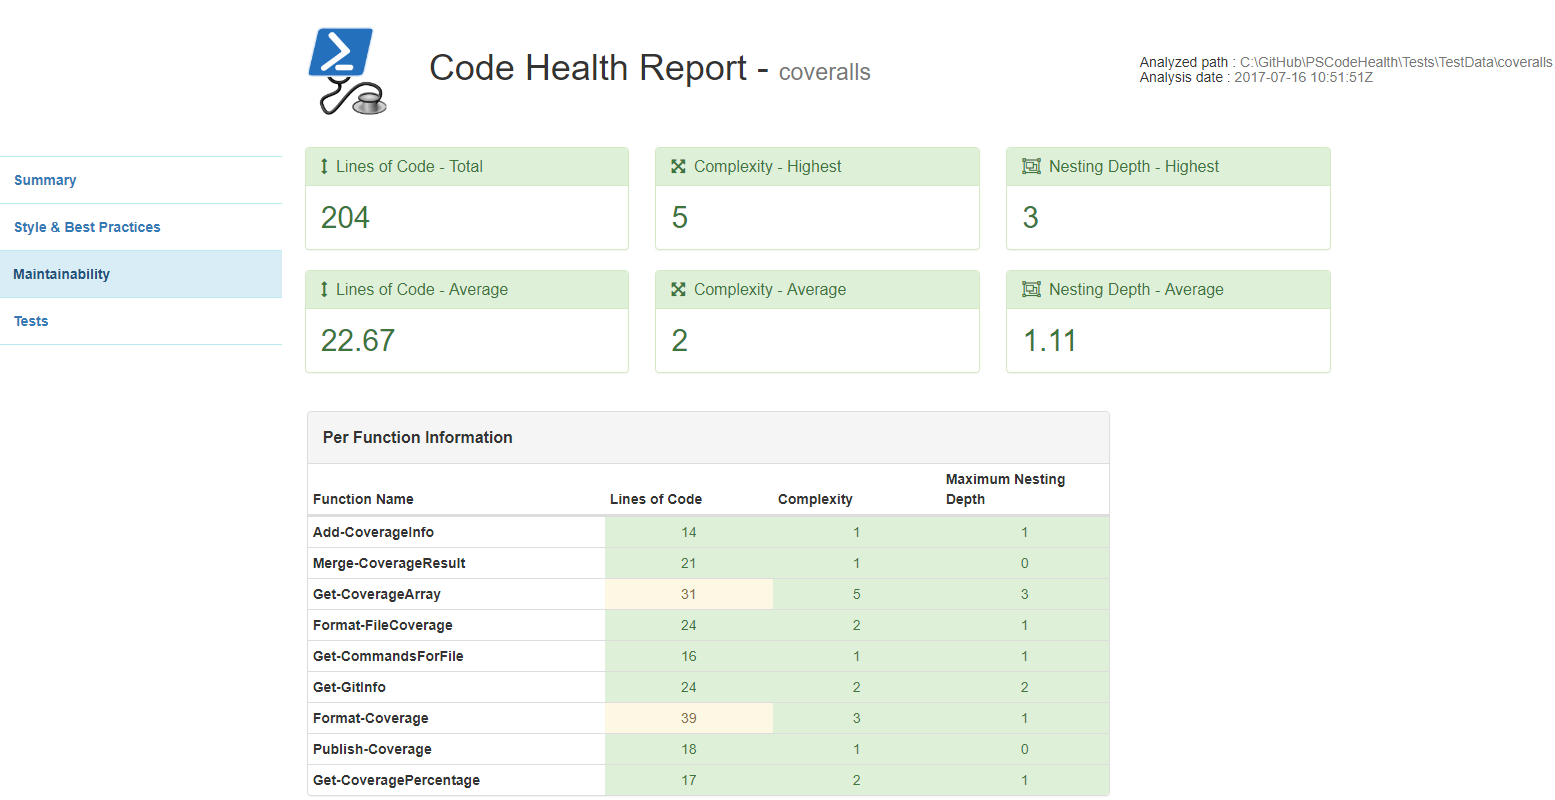
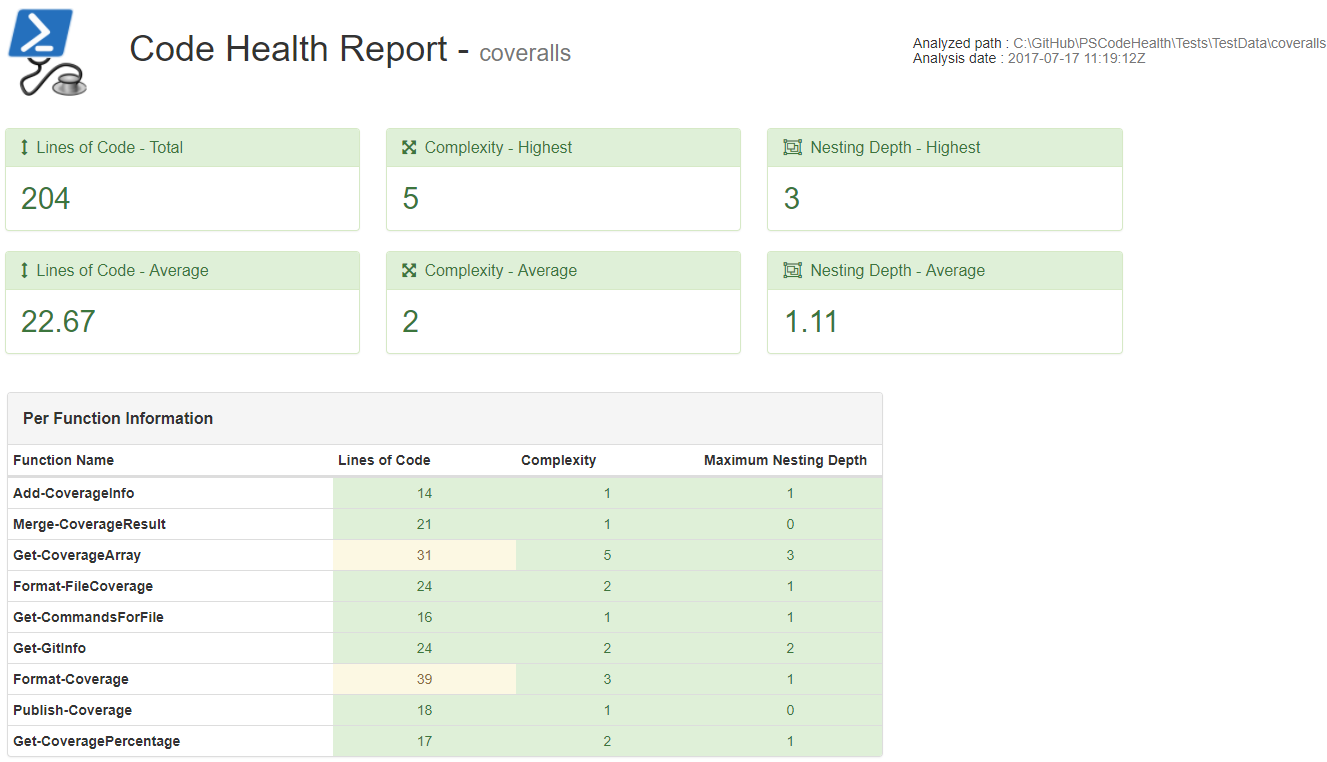
Crop screenshots [ci skip]

diff --git a/README.md b/README.md
@@ -19,11 +19,13 @@ It can allow you to ensure that your code is compliant with metrics goals (quali
 
 These features can be leveraged from within your PowerShell release pipeline.  
 
-PSCodeHealth can also generate a highly visual HTML report so that you can interpret the results at a glance, and easily share them :  
-![HTML report - Summary section](https://raw.githubusercontent.com/MathieuBuisson/PSCodeHealth/master/Examples/SummarySectionScreenshot.png "HTML report - Summary section")
+PSCodeHealth can also generate a highly visual HTML report so that you can interpret the results at a glance, and easily share them.  
+For example, here is how the Summary tab looks like :  
+![HTML report - Summary section](https://raw.githubusercontent.com/MathieuBuisson/PSCodeHealth/master/Examples/SummarySectionScreenshot.png "HTML report - Summary section")  
 
-Want to know more ? Head to the full documentation :  
-<http://pscodehealth.readthedocs.io/en/latest/>
+And here is an example of how the "Style & Best Practices" tab looks like :  
+![HTML report - Style & Best Practices section](https://raw.githubusercontent.com/MathieuBuisson/PSCodeHealth/master/Examples/BestPracticesSectionScreenshot.png "HTML report - Style & Best Practices section")  
+
 ## Requirements  
 
 Before using PSCodeHealth, you need :  
@@ -101,6 +103,9 @@ C:\> Invoke-PSCodeHealth -Path '.\coveralls' -TestsPath '.\coveralls' -HtmlRepor
 ```
   
 The above command will not output anything to the PowerShell pipeline, unless you add the `PassThru` parameter.  
+
+Want to know more ? Head to the full documentation :  
+<http://pscodehealth.readthedocs.io/en/latest/>  
 
 ## Contributing to PSCodeHealth
 
